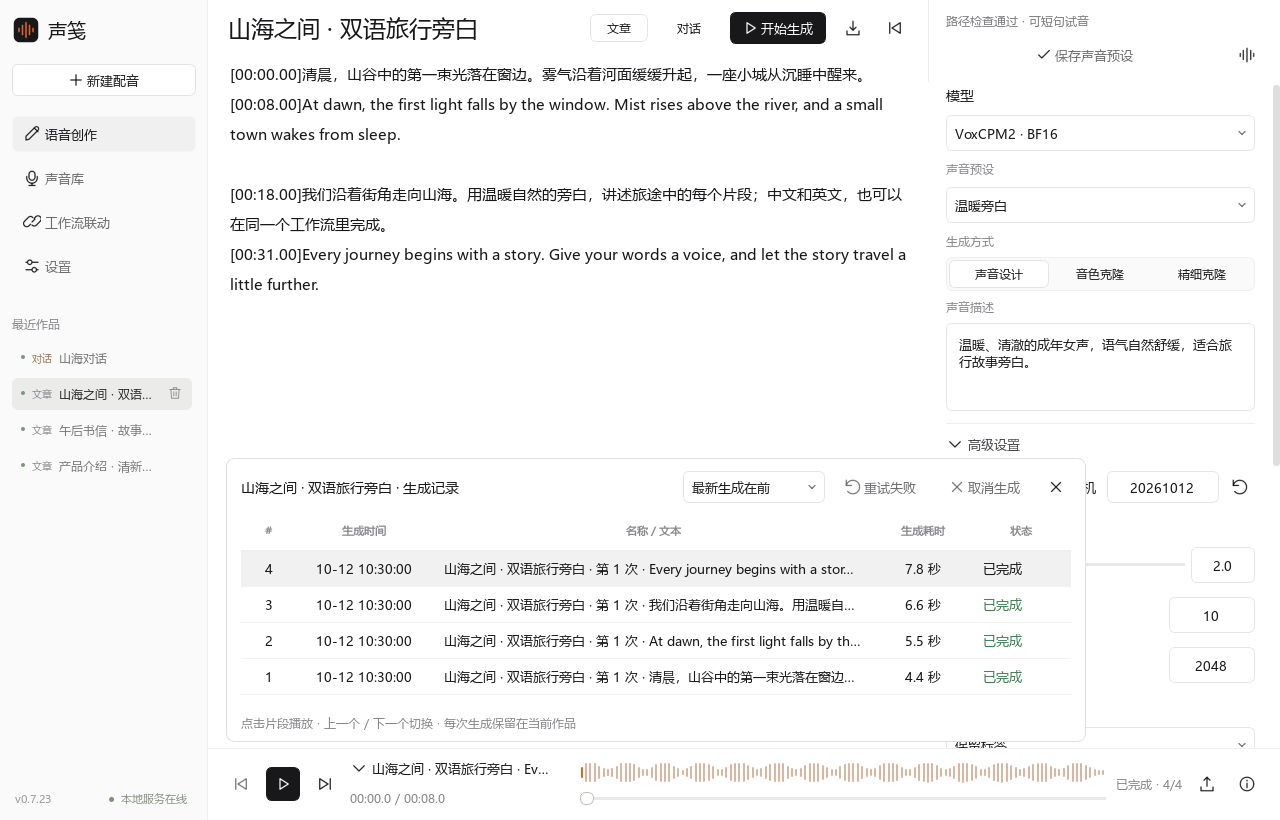
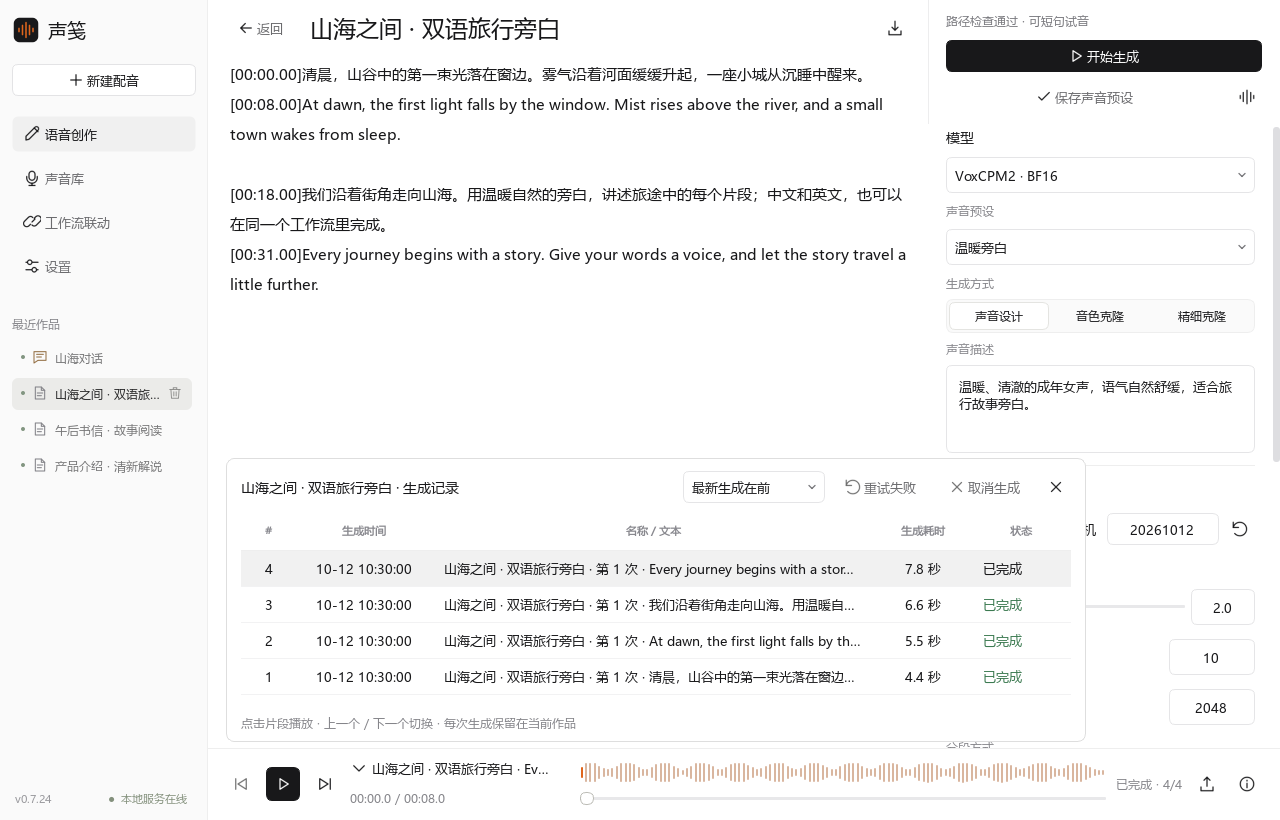
Fix creation types and restore the article generation layout

diff --git a/tests/test_dialogue_editor.py b/tests/test_dialogue_editor.py
@@ -68,7 +68,7 @@ def test_text_grows_without_clipping_and_invalid_tags_or_deleted_presets_are_exp
         widget.segments()
 
 
-def test_mode_entry_and_independent_buffers_save_and_reopen(tmp_path, qtbot, monkeypatch):
+def test_creation_type_is_fixed_and_return_keeps_separate_tasks(tmp_path, qtbot, monkeypatch):
     with TestClient(create_app(tmp_path, runner=Runner())) as client:
         window = Window(8791, tmp_path, autostart=False)
         qtbot.addWidget(window)
@@ -79,22 +79,34 @@ def test_mode_entry_and_independent_buffers_save_and_reopen(tmp_path, qtbot, mon
         window.navigate(0)
         assert window.creation_pages.currentIndex() == 0
         window.new_document()
-        target = window.selected_job
+        assert window.selected_job is None and client.get('/jobs').json() == []
         assert window.creation_pages.currentIndex() == 0
         window.creation_choices["article"].click()
+        article = window.selected_job
         window.text_edit.setPlainText("文章保留原样")
-        window.mode_buttons["dialogue"].click()
+        window.choose_creation_mode('dialogue')
+        assert window.editor_mode == 'article' and window.selected_job == article
+        assert not hasattr(window, 'mode_buttons')
+        assert window.generation_actions.indexOf(window.generate_button) == 1
+        assert window.editor_header.indexOf(window.return_button) == 0
+        assert window.return_button.text() == '返回'
+        window.return_button.click()
+        assert window.creation_pages.currentIndex() == 0
+        assert client.get('/jobs/'+article).json()['script'] == '文章保留原样'
+        window.creation_choices['dialogue'].click()
+        target = window.selected_job
+        assert target != article and window.editor_mode == 'dialogue'
+        assert window.editor_header.indexOf(window.generate_button) == 2
         row = window.dialogue_editor.rows[0]
         identity = row.identity
         row.text.setPlainText("你好，对话")
         row.set_voice(next(v for v in window.voices if not v.get("is_template")))
-        window.mode_buttons["article"].click()
-        assert window.text_edit.toPlainText() == "文章保留原样"
-        window.mode_buttons["dialogue"].click()
+        window.choose_creation_mode('article')
+        assert window.editor_mode == 'dialogue'
         window.save_document()
         saved = client.get(f"/jobs/{target}").json()
         assert saved["editor_state"]["mode"] == "dialogue"
-        assert saved["editor_state"]["article_text"] == "文章保留原样"
+        assert saved["editor_state"]["article_text"] == ""
         assert saved["editor_state"]["dialogue_entries"][0]["id"] == identity
         window.dialogue_editor.load([])
         window.open_job_data(saved)
@@ -102,8 +114,30 @@ def test_mode_entry_and_independent_buffers_save_and_reopen(tmp_path, qtbot, mon
         assert window.dialogue_editor.rows[0].identity == identity
         assert window.dialogue_editor.rows[0].text.toPlainText() == "你好，对话"
         assert window.dialogue_editor.rows[0].voice_id == row.voice_id
+        window.selected_job = article
+        window.open_job_data(client.get('/jobs/'+article).json())
+        assert window.editor_mode == 'article' and window.text_edit.toPlainText() == '文章保留原样'
+        assert window.generation_actions.indexOf(window.generate_button) == 1
+        assert not window.dialogue_editor.isVisible()
         assert window.text_edit.height() > 200
         window.close()
+
+
+@pytest.mark.parametrize('mode', ['article', 'dialogue'])
+def test_type_changes_are_rejected_before_saving_or_generating(tmp_path, mode):
+    other = 'dialogue' if mode == 'article' else 'article'
+    with TestClient(create_app(tmp_path, runner=Runner())) as client:
+        draft = client.post('/jobs/draft', json={'title':'保留任务','script':'原稿', 'editor_state':{'mode':mode}}).json()
+        target = draft['id']
+        for path, method, body in (
+            ('/document', client.patch, {'title':'不应写入','script':'不应替换', 'editor_state':{'mode':other}}),
+            ('/generate', client.post, {'voice_id':'不存在', 'segments':[{'text':'不应生成'}], 'editor_state':{'mode':other}})):
+            result = method('/jobs/'+target+path, json=body)
+            assert result.status_code == 400 and result.json()['error']['code'] == 'TASK_TYPE_LOCKED'
+            assert client.get('/jobs/'+target).json() == draft
+        result = client.patch('/jobs/'+target+'/document', json={'title':'仍保留任务','script':'正常保存'})
+        assert result.status_code == 200
+        assert client.get('/jobs/'+target).json()['work_type'] == mode
 
 
 def test_mixed_dialogue_generates_in_one_work_and_force_really_infers_without_overwriting(tmp_path, qtbot):

diff --git a/tests/test_dialogue_scope.py b/tests/test_dialogue_scope.py
@@ -45,7 +45,7 @@ def environment(tmp_path, qtbot, monkeypatch):
         window.poll()
         window.show()
         window.new_document()
-        window.choose_creation_mode("dialogue")
+        window.creation_choices['dialogue'].click()
         first = window.dialogue_editor.rows[0]
         first.set_voice(next(v for v in window.voices if v["id"] == "older"))
         first.text.setPlainText("姐姐你在干什么呀？")
@@ -119,7 +119,8 @@ def test_audio_categories_and_delete_all_respect_current_list(environment, monke
     window, client, runner, first, second = environment
     window.generate()
     wait_job(client, window.selected_job)
-    window.choose_creation_mode("article")
+    window.return_button.click()
+    window.creation_choices['article'].click()
     window.text_edit.setPlainText("一段文章")
     window.generate()
     job = wait_job(client, window.selected_job)
@@ -164,18 +165,18 @@ def test_default_voice_keeps_local_parameters_without_reselecting_a_preset(envir
 def test_type_views_backfill_old_sources_without_changing_old_fields(tmp_path):
     store = Store(tmp_path)
     target = store.create("文章", {"id": "default"}, "key", [{'text':'文章'}])
-    store.append(target, "对话", {"id": "default"}, "key", [{'text':'对白','source_id':'stable-box','source_revision':'a'*64}],
+    store.create("对话", {"id": "default"}, "key", [{'text':'对白','source_id':'stable-box','source_revision':'a'*64}],
                  editor_state={'mode':'dialogue','dialogue_entries':[{'id':'stable-box','text':'对白'}]})
     store.db.execute('DROP VIEW article_audio_records')
     store.db.execute('DROP VIEW dialogue_audio_records')
     store.db.execute('ALTER TABLE segments DROP COLUMN content_type')
     store.db.commit()
-    before = [dict(r) for r in store.db.execute('SELECT * FROM segments ORDER BY idx')]
+    before = [dict(r) for r in store.db.execute('SELECT * FROM segments ORDER BY job_id,idx')]
     store.close()
     migrated = Store(tmp_path)
     assert migrated.db.execute('SELECT count(*) FROM article_audio_records').fetchone()[0] == 1
     assert migrated.db.execute('SELECT source_id FROM dialogue_audio_records').fetchone()[0] == 'stable-box'
-    after = [dict(r) for r in migrated.db.execute('SELECT * FROM segments ORDER BY idx')]
+    after = [dict(r) for r in migrated.db.execute('SELECT * FROM segments ORDER BY job_id,idx')]
     for old, new in zip(before, after):
         assert all(old[k] == new[k] for k in old)
     backups = list((tmp_path/'backups').glob('before-dialogue-scope-*.sqlite3'))

diff --git a/voice_workbench/desktop/layout/generation.py b/voice_workbench/desktop/layout/generation.py
@@ -26,24 +26,19 @@ class GenerationLayout:
         editor.setContentsMargins(18, 12, 18, 10)
         editor.setSpacing(12)
         overline = QHBoxLayout()
+        self.editor_header = overline
+        self.return_button = button("返回", self.open_creation_home, "back", "ghost")
+        self.return_button.setToolTip("返回创作入口，当前任务会保留")
+        overline.addWidget(self.return_button)
         self.title_edit = QLineEdit("未命名配音")
         self.title_edit.setObjectName("documentTitle")
         self.title_edit.setPlaceholderText("为这段声音起个名字")
         self.title_edit.setMaxLength(200)
         self.title_edit.textChanged.connect(self.document_changed)
         overline.addWidget(self.title_edit, 1)
-        self.mode_buttons = {}
-        for mode, name in (("article", "文章"), ("dialogue", "对话")):
-            control = button(name, lambda checked=False, m=mode: self.choose_creation_mode(m), kind="segment")
-            control.setCheckable(True)
-            control.setChecked(mode == "article")
-            control.setFixedWidth(58)
-            overline.addWidget(control)
-            self.mode_buttons[mode] = control
         self.import_control = button("", self.import_text, "import", "icon")
         self.import_control.setToolTip("导入字幕或文本")
         overline.addWidget(self.import_control)
-        overline.addWidget(button("", self.open_creation_home, "previous", "icon"))
         editor.addLayout(overline)
         self.text_edit = PresetScriptEditor()
         self.text_edit.enable_mentions = False
@@ -130,6 +125,7 @@ class GenerationLayout:
         inspector_layout.addWidget(inspector_scroll, 1)
         actions = QWidget()
         action_layout = QVBoxLayout(actions)
+        self.generation_actions = action_layout
         action_layout.setContentsMargins(18, 12, 18, 12)
         action_layout.setSpacing(10)
         action_layout.addWidget(self.voice_health)
@@ -146,7 +142,7 @@ class GenerationLayout:
         self.warmup_button.setEnabled(False)
         self.generate_button.setEnabled(False)
         configuration_actions.addWidget(self.warmup_button)
-        overline.insertWidget(3, self.generate_button)
+        action_layout.insertWidget(1, self.generate_button)
         inspector_layout.insertWidget(0, actions)
         layout.addWidget(inspector)
         self.creation_pages = QStackedWidget()

diff --git a/voice_workbench/store.py b/voice_workbench/store.py
@@ -157,6 +157,7 @@ class Store:
         now = time.time()
         snapshot = json.dumps(voice, ensure_ascii=False)
         with self.lock, self.db:
+            editor_state = self.fixed_editor_state(job_id, editor_state)
             title, automatic = self.document_title(job_id, title, script, segments)
             record_only = self.db.execute("SELECT record_only FROM jobs WHERE id=?", (job_id,)).fetchone()[0]
             last, generation = self.db.execute("SELECT COALESCE(MAX(idx),0),COALESCE(MAX(generation),0) FROM segments WHERE job_id=?", (job_id,)).fetchone()
@@ -185,11 +186,27 @@ class Store:
 
     def save_document(self, job_id, title, script, script_mentions=None, editor_state=None):
         with self.lock, self.db:
+            editor_state = self.fixed_editor_state(job_id, editor_state)
             title, automatic = self.document_title(job_id, title, script)
             self.db.execute("UPDATE jobs SET title=?,script=?,script_mentions=?,editor_state=?,updated=?,auto_named=? WHERE id=? AND deleted=0",
                             (title, script, json.dumps(script_mentions or [], ensure_ascii=False), json.dumps(editor_state, ensure_ascii=False),
                              time.time(), automatic, job_id))
         return title
+
+    def fixed_editor_state(self, job_id, editor_state):
+        """Preserve a work's creation type across saves and appended generations."""
+        with self.lock:
+            row = self.db.execute("SELECT editor_state FROM jobs WHERE id=?", (job_id,)).fetchone()
+            if row is None:
+                from .errors import VoiceError
+                raise VoiceError("JOB_NOT_FOUND", "任务不存在", stage="文稿保存")
+            existing = json.loads(row["editor_state"] or "null")
+            if editor_state is None:
+                return existing
+            if work_type({"editor_state": editor_state}) != work_type({"editor_state": existing}):
+                from .errors import VoiceError
+                raise VoiceError("TASK_TYPE_LOCKED", "任务创建后不能切换文章或对话类型", "请返回创作入口，新建另一种类型的任务。", "任务类型")
+            return editor_state
 
     def get(self, job_id, include_deleted=False, generation=None):
         with self.lock:

diff --git a/voice_workbench/desktop/controllers/creation.py b/voice_workbench/desktop/controllers/creation.py
@@ -19,13 +19,39 @@ class CreationController:
     def resume_creation_editor(self):
         self.choose_creation_mode(self.editor_mode, dirty=False)
 
+    def start_creation(self, mode):
+        if self.submitting:
+            return
+        from ..api_client import checked
+        self.new_document()
+        self.choose_creation_mode(mode, dirty=False)
+        if self.ready:
+            self.submitting = True
+            self.update_generation_actions()
+            def created(job):
+                self.submitting = False
+                self.selected_job = job["id"]
+                self.render_job(job)
+                self.update_generation_actions()
+                self.document_changed()
+                self.poll()
+            self.call(lambda c: checked(c.post("/jobs/draft", json=self.document_payload())), created, self.submission_failed)
+
     def choose_creation_mode(self, mode, dirty=True):
+        if self.selected_job and not self.loading_document and mode != self.editor_mode:
+            self.statusBar().showMessage("任务类型已固定，请返回创作入口新建另一种任务。", 6000)
+            return
         self.capture_dialogue_parameters()
         self.editor_mode = mode
         self.creation_pages.setCurrentIndex(1)
         self.editor_stack.setCurrentIndex(0 if mode == "article" else 1)
-        for key, control in self.mode_buttons.items():
-            control.setChecked(key == mode)
+        self.editor_header.removeWidget(self.generate_button)
+        self.generation_actions.removeWidget(self.generate_button)
+        if mode == "article":
+            self.generation_actions.insertWidget(1, self.generate_button)
+        else:
+            self.editor_header.insertWidget(2, self.generate_button)
+        self.generate_button.show()
         self.import_control.setVisible(mode == "article")
         self.generate_button.setText("全部生成" if mode == "dialogue" else "开始生成")
         self.warmup_button.setVisible(mode == "article")

diff --git a/voice_workbench/ui.py b/voice_workbench/ui.py
@@ -68,6 +68,9 @@ def application_icon():
 ICONS = {
     "audio": '<path d="M3 10v4m4-8v12m5-15v18m5-15v12m4-8v4"/>',
     "pen": '<path d="m15 4 5 5M4 20l4-1L20 7a2.8 2.8 0 0 0-4-4L4 15z"/>',
+    "article": '<path d="M14 3H5v18h14V8zM14 3v5h5M8 12h8M8 16h6"/>',
+    "dialogue": '<path d="M3 4h18v13H9l-6 4zM7 8h10M7 12h7"/>',
+    "back": '<path d="M19 12H5m6-6-6 6 6 6"/>',
     "voices": '<rect x="8" y="3" width="8" height="12" rx="4"/><path d="M5 10v2a7 7 0 0 0 14 0v-2M12 19v3m-4 0h8"/>',
     "link": '<path d="m10 13 4-4m-6 7-2 2a4 4 0 0 1-6-6l5-5a4 4 0 0 1 6 0m2 1 2-2a4 4 0 0 1 6 6l-5 5a4 4 0 0 1-6 0" transform="translate(2 -1)"/>',
     "plus": '<path d="M12 5v14M5 12h14"/>',
@@ -311,15 +314,10 @@ class RecentJobDelegate(QStyledItemDelegate):
         painter.setPen(QColor("#282829" if selected else "#777778"))
         painter.setFont(option.font)
         from .naming import work_type
-        category = "对话" if work_type(value) == "dialogue" else "文章"
-        painter.setPen(QColor("#967248" if category == "对话" else "#85858a"))
-        small = QFont(option.font)
-        small.setPixelSize(10)
-        painter.setFont(small)
-        painter.drawText(rectangle.adjusted(20, 0, 0, 0), Qt.AlignmentFlag.AlignVCenter, category)
-        painter.setFont(option.font)
-        painter.setPen(QColor("#282829" if selected else "#777778"))
-        text_rect = rectangle.adjusted(47, 0, -30, 0)
+        category = work_type(value)
+        icon(category, "#967248" if category == "dialogue" else "#85858a", 16).paint(
+            painter, rectangle.left() + 20, rectangle.center().y() - 8, 16, 16)
+        text_rect = rectangle.adjusted(43, 0, -30, 0)
         text = option.fontMetrics.elidedText(str(index.data() or ""), Qt.TextElideMode.ElideRight, text_rect.width())
         painter.drawText(text_rect, Qt.AlignmentFlag.AlignVCenter, text)
         if selected or hover:

diff --git a/voice_workbench/http_api/system.py b/voice_workbench/http_api/system.py
@@ -12,7 +12,7 @@ router = APIRouter()
 @router.get("/")
 @router.get("/health")
 def health(request: Request):
-    return {"service": "local-voice-workbench", "version": __version__, "capabilities": ["async_jobs", "legacy_infer", "reference_library", "task_delete", "generation_options", "work_generations", "asset_management", "voice_discovery", "workflow_grouping", "workflow_parallel", "workflow_record_only", "engine_download", "engine_verification", "engine_updates", "model_updates", "script_voice_mentions", "dialogue_editor", "dialogue_audio_scope"],
+    return {"service": "local-voice-workbench", "version": __version__, "capabilities": ["async_jobs", "legacy_infer", "reference_library", "task_delete", "generation_options", "work_generations", "asset_management", "voice_discovery", "workflow_grouping", "workflow_parallel", "workflow_record_only", "engine_download", "engine_verification", "engine_updates", "model_updates", "script_voice_mentions", "dialogue_editor", "dialogue_audio_scope", "fixed_creation_type"],
             "status": "running", "data_dir": str(manager(request).root), "engine": manager(request).models.engines.listing(), **manager(request).status()}
 
 

diff --git a/voice_workbench/desktop/controllers/documents.py b/voice_workbench/desktop/controllers/documents.py
@@ -237,7 +237,6 @@ class DocumentController:
             self.settings.player.pause()
 
     def new_document(self):
-        from ..api_client import checked
         if getattr(self, "submitting", False):
             return
         self.save_document()
@@ -263,17 +262,6 @@ class DocumentController:
         self.dialogue_editor.load([])
         self.editor_mode = "article"
         self.open_creation_home()
-        if self.ready:
-            self.submitting = True
-            self.update_generation_actions()
-            def created(job):
-                self.submitting = False
-                self.selected_job = job["id"]
-                self.render_job(job)
-                self.update_generation_actions()
-                self.document_changed()
-                self.poll()
-            self.call(lambda c: checked(c.post("/jobs/draft", json={"title": "未命名配音", "script": ""})), created, self.submission_failed)
 
     def update_script_stats(self):
         from ...subtitles import parse_text

diff --git a/voice_workbench/desktop/layout/creation.py b/voice_workbench/desktop/layout/creation.py
@@ -17,9 +17,9 @@ def creation_home(window):
     options.setSpacing(16)
     window.creation_choices = {}
     for mode, name, symbol, description in (
-            ("article", "文章", "pen", "长文、旁白和字幕\n沿用文本编辑与参数设置"),
-            ("dialogue", "对话", "voices", "多角色对白\n输入 @ 选择音色，每段独立编辑")):
-        control = button(name + "\n" + description, lambda checked=False, m=mode: window.choose_creation_mode(m), symbol)
+            ("article", "文章", "article", "长文、旁白和字幕\n沿用文本编辑与参数设置"),
+            ("dialogue", "对话", "dialogue", "多角色对白\n输入 @ 选择音色，每段独立编辑")):
+        control = button(name + "\n" + description, lambda checked=False, m=mode: window.start_creation(m), symbol)
         control.setObjectName("creationChoice")
         control.setIconSize(QSize(25, 25))
         control.setMinimumHeight(128)

diff --git a/voice_workbench/desktop/controllers/service.py b/voice_workbench/desktop/controllers/service.py
@@ -109,7 +109,7 @@ class ServiceController:
             health = checked(client.get("/health"))
             if health.get("service") != "local-voice-workbench" or Path(health["data_dir"]).resolve() != self.data_dir:
                 raise RuntimeError("端口上的服务与当前项目不匹配")
-            if not {"generation_options", "work_generations", "asset_management", "dialogue_editor", "dialogue_audio_scope"}.issubset(health.get("capabilities", [])):
+            if not {"generation_options", "work_generations", "asset_management", "dialogue_editor", "dialogue_audio_scope", "fixed_creation_type"}.issubset(health.get("capabilities", [])):
                 raise RuntimeError("语音服务版本过旧，请关闭旧窗口及独立运行的旧服务后重新启动。")
             response = client.get(f"/jobs/{selected}") if selected else None
             job = checked(response) if response and response.status_code != 404 else None

diff --git a/tests/test_work_player.py b/tests/test_work_player.py
@@ -129,6 +129,7 @@ def test_gui_generate_reuses_work_new_document_creates_draft_and_reopens_script(
         window.open_job_data(job)
         assert window.text_edit.toPlainText() == "第二稿"
         window.new_document()
+        window.creation_choices['article'].click()
         new = window.selected_job
         assert new != target and window.job_data["status"] == "draft"
         window.text_edit.setPlainText("未生成草稿")
@@ -222,6 +223,7 @@ def test_pending_autosave_finishes_before_generation_and_pending_submit_is_not_d
         monkeypatch.setattr(window, "call", immediate)
         window.poll()
         window.new_document()
+        window.creation_choices['article'].click()
         target = window.selected_job
         pending = []
         monkeypatch.setattr(window, "call", lambda action, success=None, failure=None: pending.append((action, success)))

diff --git a/voice_workbench/manager.py b/voice_workbench/manager.py
@@ -66,6 +66,8 @@ class Manager:
                 use_preset=True, record_only=False, delivery_ack=False, script_mentions=None, editor_state=None):
         if not segments or any(not s["text"].strip() for s in segments):
             raise VoiceError("EMPTY_TEXT", "文本不能为空", "检查字幕中的空白片段。", "提交")
+        if job_id:
+            editor_state = self.store.fixed_editor_state(job_id, editor_state)
         prepared, segments = prepare_segments(self.config, model_name, segments, overrides=overrides,
                                               use_preset=use_preset, validator=check_voice)
         voice, fingerprint, provenance = prepared.voice, prepared.fingerprint, prepared.provenance
